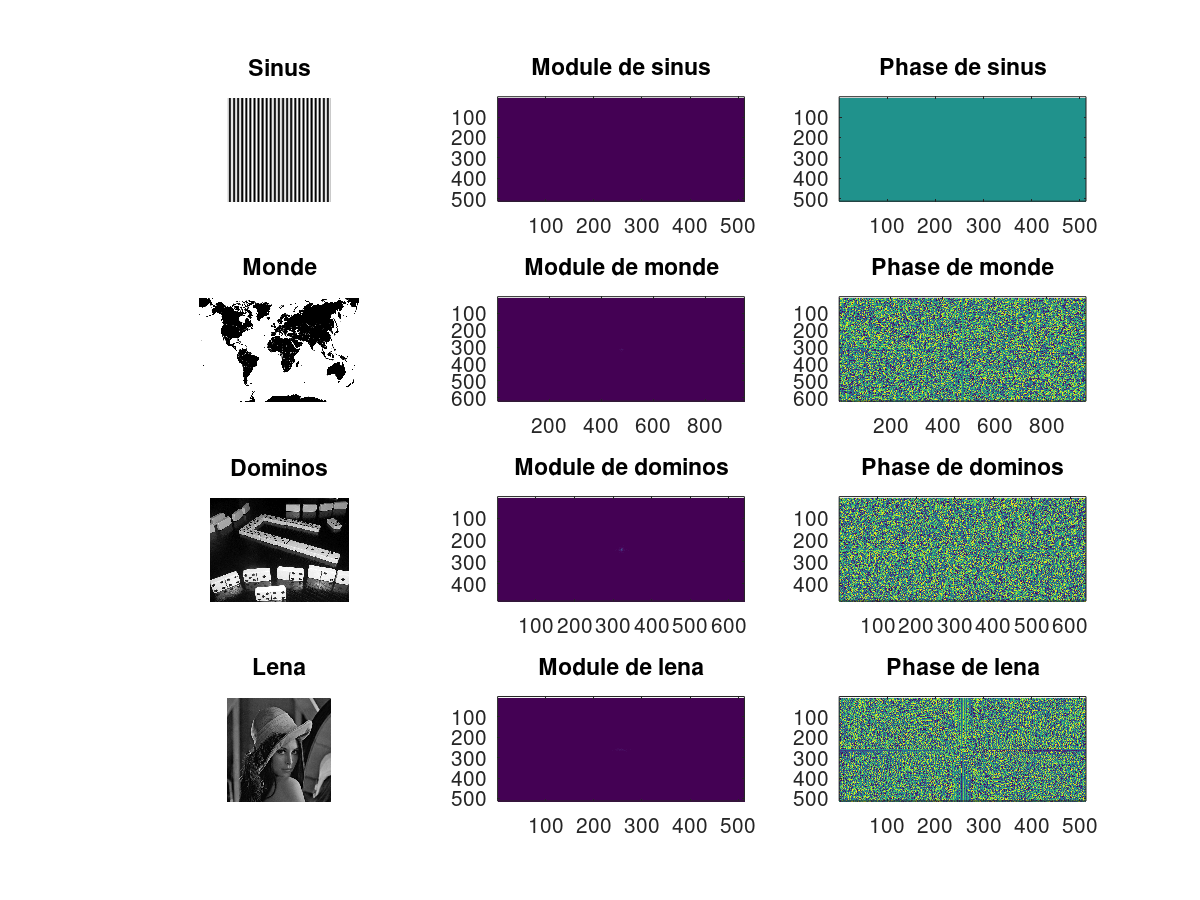
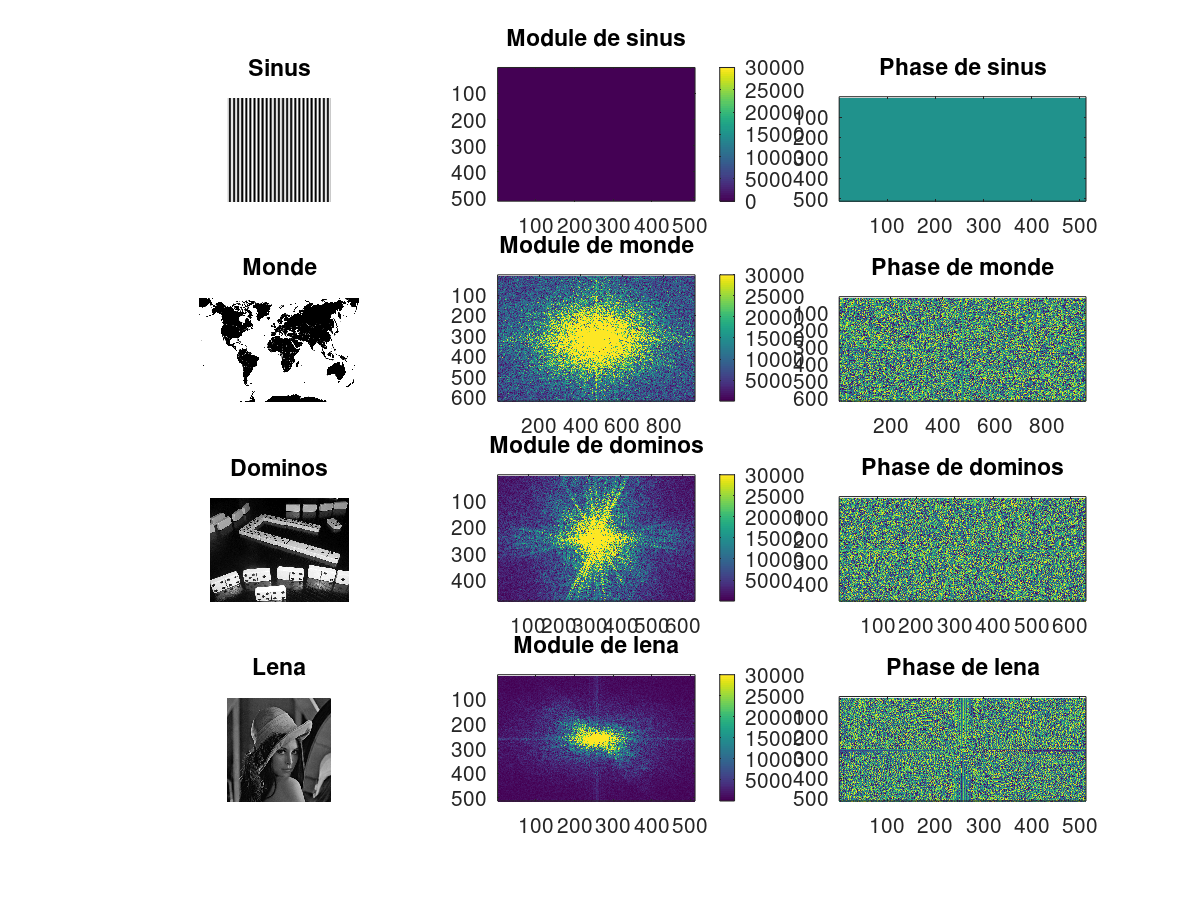
:bug: Fix magnitude in part 1

Changed region(s): [[0.37, 0.0311, 0.6783, 0.9333]]

diff --git a/TP5/tp5.m b/TP5/tp5.m
@@ -14,20 +14,32 @@ pkg load image
 [beach, map_ebach, alpha_beach] = imread("data/beach.tif");
 
 function transformed = fourier(img)
-	transformed = fft2(img);
+	transformed = fft2(img); % , 2^nextpow2(200), 2^nextpow2(600)
 	transformed = fftshift(transformed);
 endfunction
 
-function [transformed, magnitude, phase] = ftcomponent(img)
+function p = choosePixel(pixel)
+	threshold = 30000;
+	if pixel < threshold
+		p = pixel;
+	else
+		p = threshold;
+	endif
+endfunction
+
+function [transformed, magnitude, phase] = ftcomponent(img, maxMagnitude = false)
 	transformed = fourier(img);
 	magnitude = abs(transformed);
+	if maxMagnitude
+		magnitude = arrayfun(@choosePixel, magnitude);
+	endif
 	phase = arg(transformed);
 endfunction
 
-[sinus_fft, magnitude_sinus, arg_sinus] = ftcomponent(sinus);
-[monde_fft, magnitude_monde, arg_monde] = ftcomponent(monde);
-[dominos_fft, magnitude_dominos, arg_dominos] = ftcomponent(dominos);
-[lena_fft, magnitude_lena, arg_lena] = ftcomponent(lena);
+[sinus_fft, magnitude_sinus, arg_sinus] = ftcomponent(sinus, true);
+[monde_fft, magnitude_monde, arg_monde] = ftcomponent(monde, true);
+[dominos_fft, magnitude_dominos, arg_dominos] = ftcomponent(dominos, true);
+[lena_fft, magnitude_lena, arg_lena] = ftcomponent(lena, true);
 
 figure(1, "position", [0, 0, 1920, 1000]);
 
@@ -36,6 +48,7 @@ imshow(sinus);
 title("Sinus");
 subplot(4, 3, 2);
 imagesc(magnitude_sinus);
+colorbar();
 title("Module de sinus");
 subplot(4, 3, 3);
 imagesc(arg_sinus);
@@ -46,6 +59,7 @@ imshow(monde);
 title("Monde");
 subplot(4, 3, 5);
 imagesc(magnitude_monde);
+colorbar();
 title("Module de monde");
 subplot(4, 3, 6);
 imagesc(arg_monde);
@@ -56,6 +70,7 @@ imshow(dominos);
 title("Dominos");
 subplot(4, 3, 8);
 imagesc(magnitude_dominos);
+colorbar();
 title("Module de dominos");
 subplot(4, 3, 9);
 imagesc(arg_dominos);
@@ -66,6 +81,7 @@ imshow(lena);
 title("Lena");
 subplot(4, 3, 11);
 imagesc(magnitude_lena);
+colorbar();
 title("Module de lena");
 f = subplot(4, 3, 12);
 imagesc(arg_lena);
